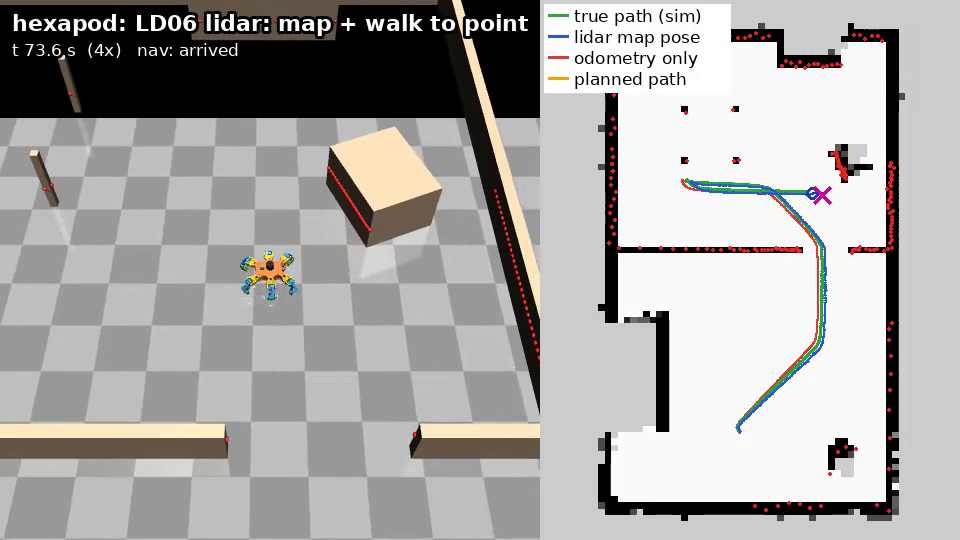
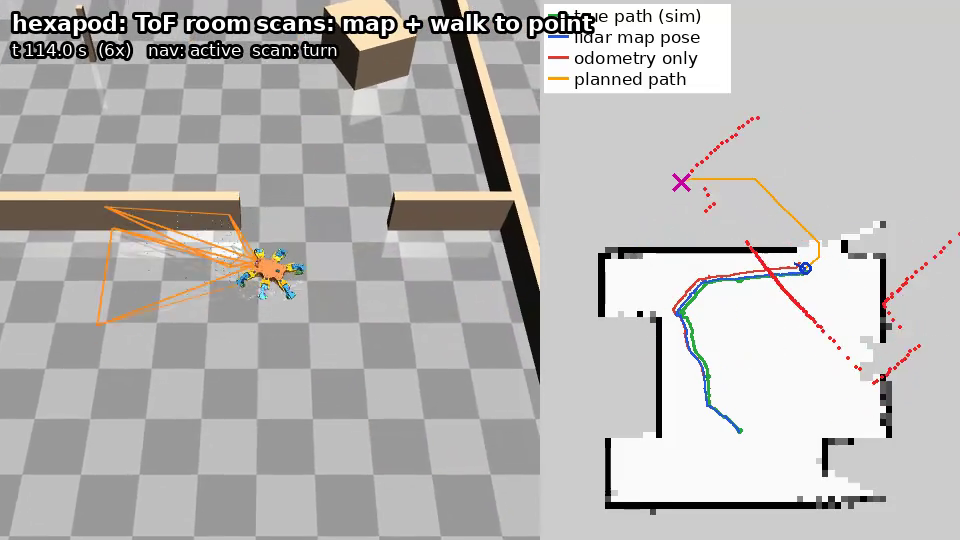
Sim README: hexapod navigation picture with its ToF sensors (no lidar on it)

diff --git a/sim/README.md b/sim/README.md
@@ -270,8 +270,8 @@ sends 227 / 143.
 |---|---|
 | ![Hexapod standing](docs/hexapod_standing.png) | ![Hexapod walking with the firmware gait](docs/hexapod_walking.png) |
 | Neutral stance, the CAD parts (`cad/hexapod`) | Walking forward, driven by the firmware's own gait and `HexapodLegIK` |
-| ![Hexapod mapping and navigating with the lidar](docs/hexapod_navigation.png) | ![Hexapod on the obstacle course](docs/hexapod_obstacles.png) |
-| Lidar map and walk to a point (`examples/lidar_nav.py --model hexapod`) | Obstacle course with the ToF terrain map (`examples/terrain_walk.py --hexapod`) |
+| ![Hexapod mapping and navigating with its ToF sensors](docs/hexapod_navigation.png) | ![Hexapod on the obstacle course](docs/hexapod_obstacles.png) |
+| ToF room scans: map and walk to a point (`examples/lidar_nav.py --model hexapod --tof`) | Obstacle course with the ToF terrain map (`examples/terrain_walk.py --hexapod`) |
 
 The 2026-11 design ("Recommended" in the body study), not built yet: hexagon
 body, coxa / femur / tibia 60 / 50 / 60 mm, 18 MG90S straight on the joints
